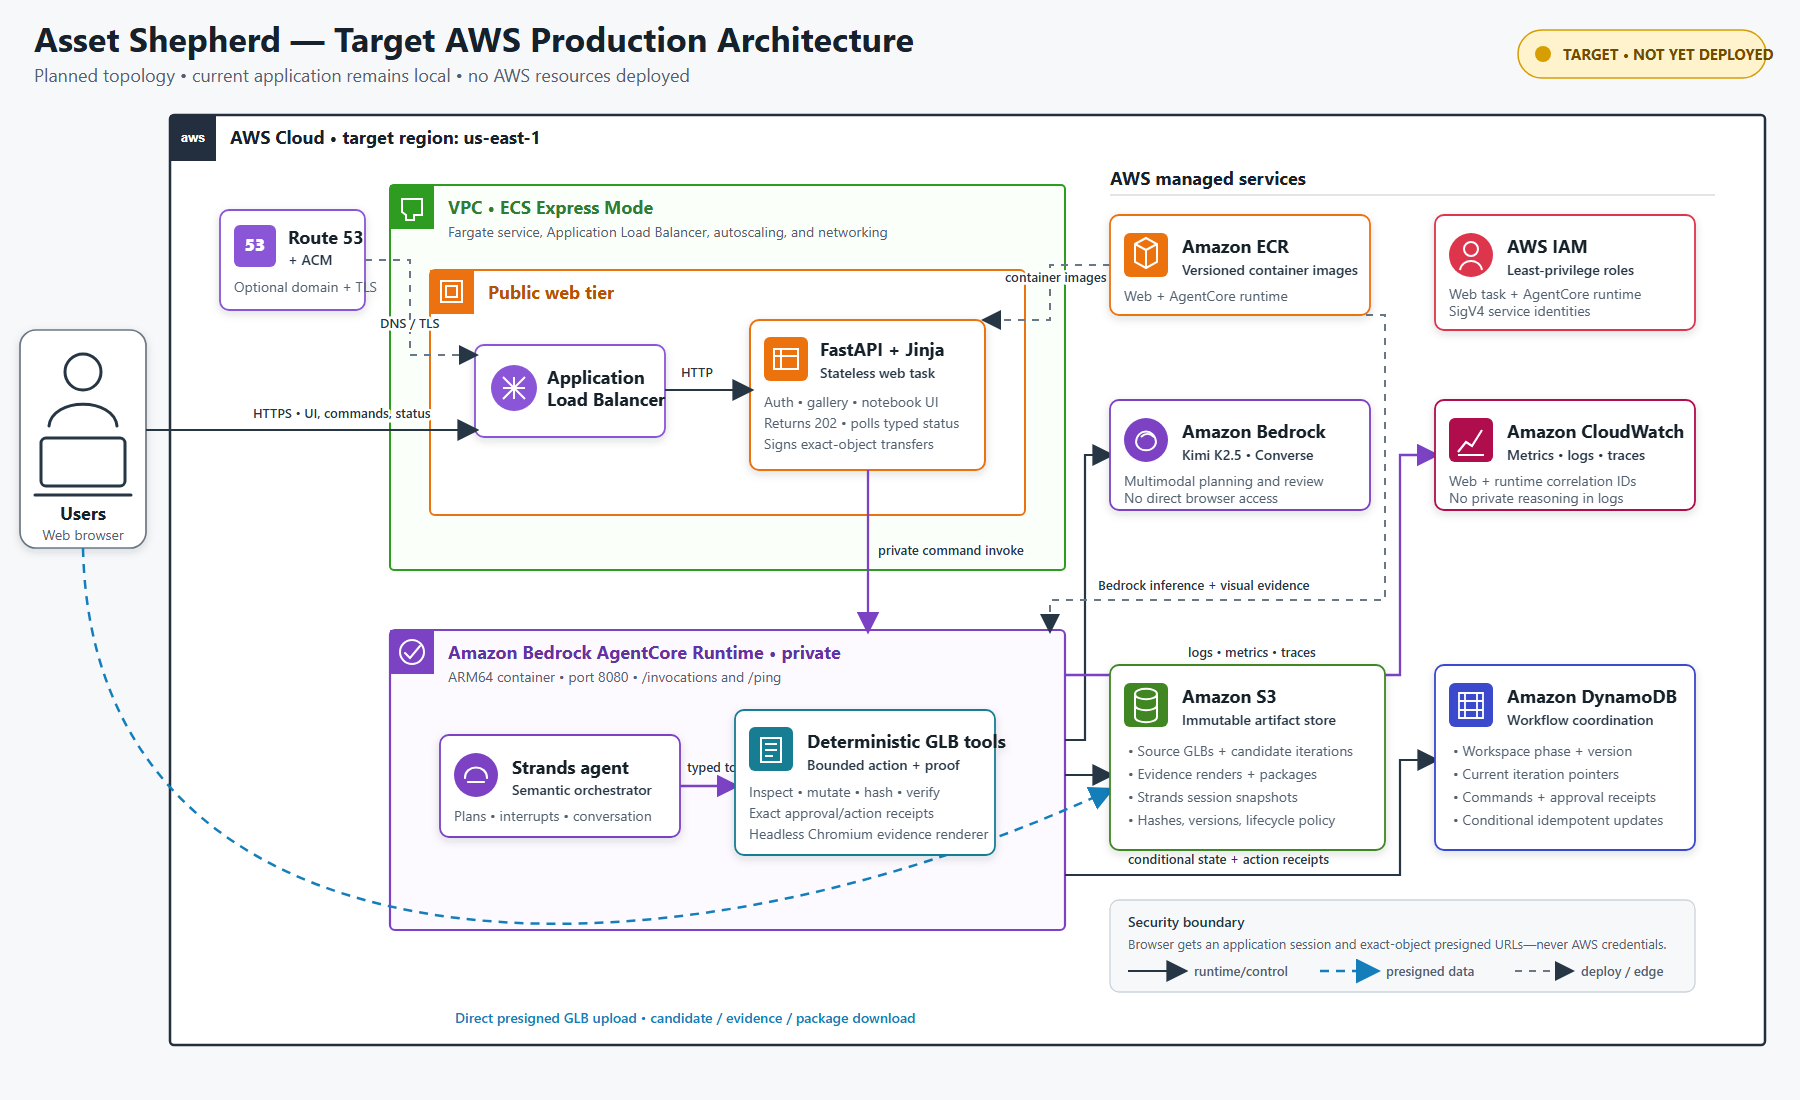
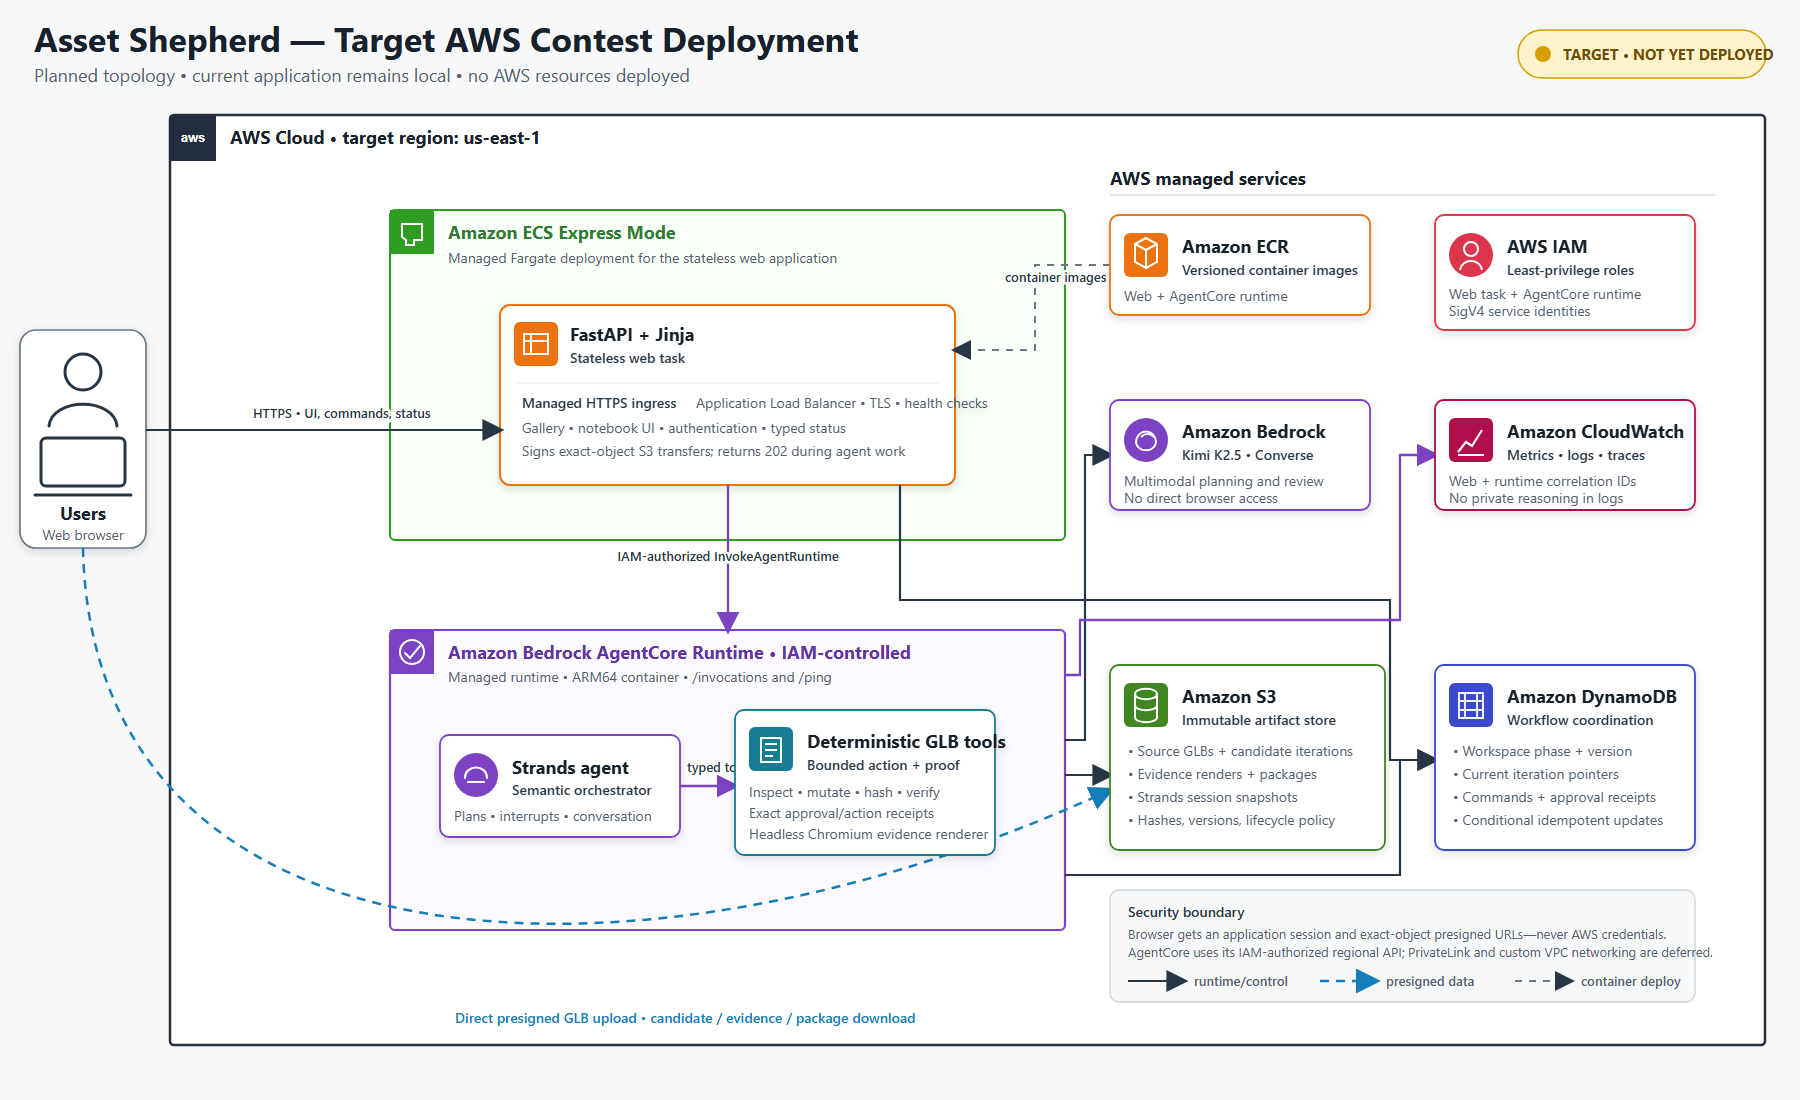
Simplify AWS contest architecture

diff --git a/docs/BEDROCK_DEPLOYMENT_RUNBOOK.md b/docs/BEDROCK_DEPLOYMENT_RUNBOOK.md
@@ -52,8 +52,8 @@ until the remote-product gate passes.
   `1.22376 x 0.820321 x 0.268958 m` candidate grounded at `Y=0`. This qualifies Nova as a usable
   diagnostic path, not the default parity model or a completed browser matrix.
 - [x] D093 supersedes D075 and selects ECS Express Mode as the first public FastAPI host beside
-  private AgentCore. AWS has closed App Runner to new customers. No remote resources have been
-  deployed yet.
+  IAM-controlled AgentCore. AWS has closed App Runner to new customers. No remote resources have
+  been deployed yet.
 - [x] Step 2.3 fixed Bedrock provider gate. Kimi passes 8/8 safety and 8/8 semantic/visual cases
   through the least-privilege profile. Mistral Large 3 fails two hard semantic cases and is not a
   production default. Luna's optional Bedrock evaluation remains separately blocked by its account
@@ -116,8 +116,8 @@ table exists yet.
 
 The optional Meta/Muse comparator is a separate local test configuration: local Strands calls the
 Meta Model API over outbound HTTPS instead of Bedrock. It is deliberately absent from the canonical
-AWS production diagram. Deploying it later would require a reviewed secret, AgentCore internet
-egress, the standard non-training model, and a new architecture decision.
+AWS contest-deployment diagram. Deploying it later would require a reviewed secret, AgentCore
+internet egress, the standard non-training model, and a new architecture decision.
 
 Current AWS evidence is visible in these places in `us-east-1`:
 
@@ -136,10 +136,10 @@ to CloudWatch Logs or S3 and needs an explicit privacy/retention decision.
 
 ### Intended AWS topology (not yet deployed)
 
-The following AWS-style diagram is the canonical visual for the planned production deployment.
+The following AWS-style diagram is the canonical visual for the planned contest deployment.
 Its source is an editable SVG; the checked-in PNG is the presentation-ready rendered copy.
 
-![Asset Shepherd target AWS production architecture](assets/asset-shepherd-aws-architecture.svg)
+![Asset Shepherd target AWS contest deployment architecture](assets/asset-shepherd-aws-architecture.svg)
 
 [Open the editable SVG](assets/asset-shepherd-aws-architecture.svg) ·
 [Open the rendered PNG](assets/asset-shepherd-aws-architecture.png)
@@ -149,9 +149,9 @@ fallback.
 
 ```mermaid
 flowchart TD
-    B[Browser] --> W[FastAPI web service]
+    B[Browser] --> W[ECS Express Mode<br/>Managed HTTPS + FastAPI/Jinja]
     B -->|presigned upload/download| S3[Private S3 asset storage]
-    W -->|workspace_id and structured turn| A[AgentCore Runtime]
+    W -->|IAM-authorized InvokeAgentRuntime| A[AgentCore Runtime]
     A --> ST[Strands agent]
     ST --> BR[Amazon Bedrock model]
     ST --> T[Deterministic GLB tools]
@@ -163,10 +163,15 @@ flowchart TD
     W --> CW
     T --> R[Portable renderer or isolated render worker]
     R --> S3
+    ECR[Amazon ECR] -. container image .-> W
+    IAM[AWS IAM roles] -. service identity .-> W
+    IAM -. service identity .-> A
 ```
 
-The web service authenticates users and invokes AgentCore service-to-service. The browser does not
-receive AWS credentials and does not invoke the private agent runtime directly.
+The web service authenticates users and invokes AgentCore's regional API with its IAM task role.
+The browser does not receive AWS credentials and does not invoke the agent runtime directly.
+PrivateLink, custom AgentCore VPC connectivity, Route 53, and a custom domain are deferred rather
+than implied by the contest deployment.
 
 ### Local and remote execution are configurations of one product
 
@@ -183,7 +188,7 @@ The AWS deployment uses the same application contracts with cloud-backed adapter
 |---|---|---|
 | Browser address | `http://127.0.0.1:8010` | ECS Express HTTPS load-balancer URL or approved custom domain |
 | FastAPI/Jinja web process | Local Uvicorn process | Stateless ECS Express Mode/Fargate task |
-| Workflow execution | Local Strands process | Private AgentCore Runtime invocation |
+| Workflow execution | Local Strands process | IAM-authorized AgentCore Runtime invocation |
 | Model inference | Bedrock over outbound HTTPS | Bedrock from the AgentCore execution role |
 | GLBs, evidence, packages | Isolated local workspace directories | Private S3 workspace prefixes |
 | Workspace and command state | Atomic local JSON plus locks | Conditional DynamoDB records |
@@ -203,10 +208,11 @@ and billable. The web task does not become a state authority: its filesystem and
 disposable, and all durable workspace data must already be in S3/DynamoDB before the remote-product
 gate.
 
-AgentCore remains a separate private runtime for the Strands workflow. The ECS task role may invoke
-that runtime and access only the required S3/DynamoDB records. The browser receives application
-sessions and short-lived exact-object transfer URLs, never AWS credentials. A compatibility failure
-requires a recorded replacement-host decision but does not change application or agent contracts.
+AgentCore remains a separate IAM-controlled runtime for the Strands workflow. The ECS task role may
+invoke that runtime and access only the required S3/DynamoDB records. The browser receives
+application sessions and short-lived exact-object transfer URLs, never AWS credentials. A
+compatibility failure requires a recorded replacement-host decision but does not change application
+or agent contracts.
 
 ## Current implementation map
 

diff --git a/docs/DECISIONS.md b/docs/DECISIONS.md
@@ -108,7 +108,7 @@ edge-on crop occupied about 0.5% of pixels while spanning 26% of the frame. The 
 floor is now 0.1%, with the independent 8% projected-span and clipping checks retained. A regression
 test proves that a long slender silhouette passes while a blank mask still fails.
 
-### D093 — Host the web tier on ECS Express Mode beside private AgentCore
+### D093 — Host the web tier on ECS Express Mode beside IAM-controlled AgentCore
 
 **Date:** 2026-09-02
 
@@ -128,19 +128,24 @@ the state authority.
 
 **Decision**
 
-Deploy one stateless FastAPI/Jinja container from private ECR through ECS Express Mode. It owns
-HTTPS routes, authentication, gallery authorization, presigned exact-object transfer, and
-service-to-service invocation. Deploy the Strands workflow and deterministic GLB tools in a private
-AgentCore Runtime only after the ARM64/Chromium compatibility spike passes. Keep immutable GLBs,
-evidence, packages, and Strands snapshots in private workspace-scoped S3 prefixes. Keep the current
-workspace pointer, iteration lineage, approval/command receipts, and optimistic version in
-DynamoDB.
+Deploy one stateless FastAPI/Jinja container from private ECR through ECS Express Mode. Treat its
+managed HTTPS endpoint, Application Load Balancer, TLS, health checks, Fargate service, autoscaling,
+and networking as one deployment abstraction rather than separately designed infrastructure. It
+owns HTTPS routes, authentication, gallery authorization, presigned exact-object transfer, and
+service-to-service invocation. Deploy the Strands workflow and deterministic GLB tools in an
+IAM-controlled AgentCore Runtime only after the ARM64/Chromium compatibility spike passes. Keep
+immutable GLBs, evidence, packages, and Strands snapshots in private workspace-scoped S3 prefixes.
+Keep the current workspace pointer, iteration lineage, approval/command receipts, and optimistic
+version in DynamoDB.
 
 Persist an artifact to S3 and verify its hash before conditionally advancing the DynamoDB pointer.
 Key every consequential command by a stable action hash so retries return the existing receipt
 instead of mutating twice. The web tier submits a command and returns `202 Accepted`; the notebook
 polls typed status while AgentCore runs. Browser clients never receive AWS credentials and never
-invoke the private runtime directly. Preserve the local Uvicorn/offline configuration as the same
+invoke the runtime directly. The web task calls the normal regional `InvokeAgentRuntime` API with
+its IAM role; PrivateLink and custom AgentCore VPC connectivity are deferred unless a later
+requirement justifies them. Route 53 and a custom domain are optional polish rather than contest
+dependencies. Preserve the local Uvicorn/offline configuration as the same
 product with local storage/runtime adapters.
 
 **Evidence and consequences**

diff --git a/docs/PROJECT_STATUS.md b/docs/PROJECT_STATUS.md
@@ -1,7 +1,7 @@
 # Asset Shepherd Project Status
 
 **Last updated:** 2026-09-02
-**Current commit:** Muse comparator and simplified AWS architecture diagram (this file is included)
+**Current commit:** Simplified AWS contest-deployment architecture (this file is included)
 **Current milestone:** M9 agent-led sensing and disposition / RW2 Minimum Asset Flock / M10 evaluation
 **Overall state:** IN_PROGRESS
 
@@ -69,7 +69,10 @@ exact-mutation, invariant-verification, and packaging layer.
   Bedrock remains the AWS candidate. A separate Terra/xhigh review simplified the canonical AWS
   diagram into a clearer left-to-right browser → web → agent flow, consolidated deterministic GLB
   mutation and Chromium rendering, and retained every storage, identity, observability, and deploy
-  relationship without implying that any AWS application resource is already deployed. The common
+  relationship without implying that any AWS application resource is already deployed. A follow-up
+  architecture review collapses ALB/TLS/Fargate/networking into the ECS Express abstraction,
+  removes Route 53/custom-domain polish, and labels AgentCore as an IAM-authorized regional API
+  rather than implying PrivateLink or custom VPC networking. The common
   gate passes with 228 tests, two intentional live-provider skips, lock validation, Ruff,
   formatting, PowerShell parsing, valid SVG/PNG artifacts, and zero Pyright findings.
 
@@ -95,7 +98,7 @@ exact-mutation, invariant-verification, and packaging layer.
   SVG and rendered PNG now make the intended browser, ECS Express Mode, AgentCore, Bedrock, S3,
   DynamoDB, ECR, IAM, and CloudWatch boundaries explicit for implementation and contest materials.
   AWS has closed App Runner to new customers, so D093 supersedes D075 and selects one stateless ECS
-  Express Mode web container beside a private AgentCore Runtime, with S3 as immutable
+  Express Mode web container beside an IAM-controlled AgentCore Runtime, with S3 as immutable
   artifact/session storage and DynamoDB as the conditional workspace/command pointer. No ECS, ECR,
   AgentCore, S3, or DynamoDB resource has been deployed yet.
 
